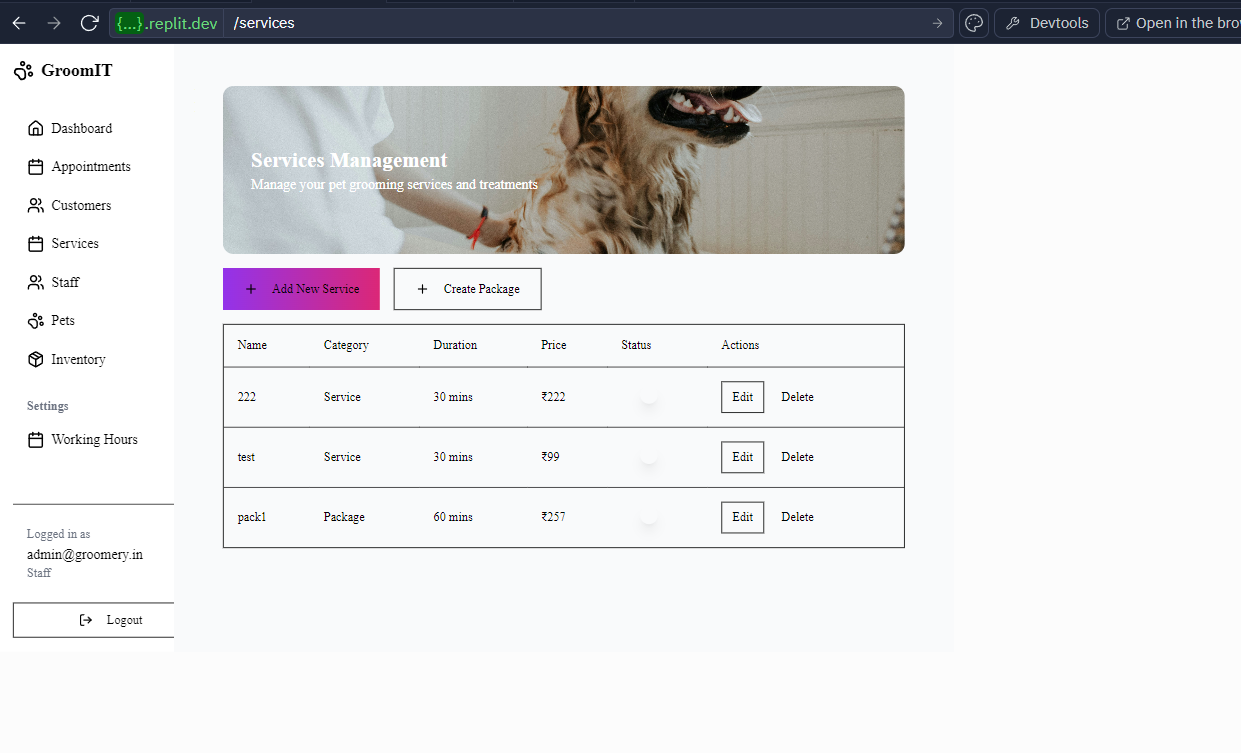
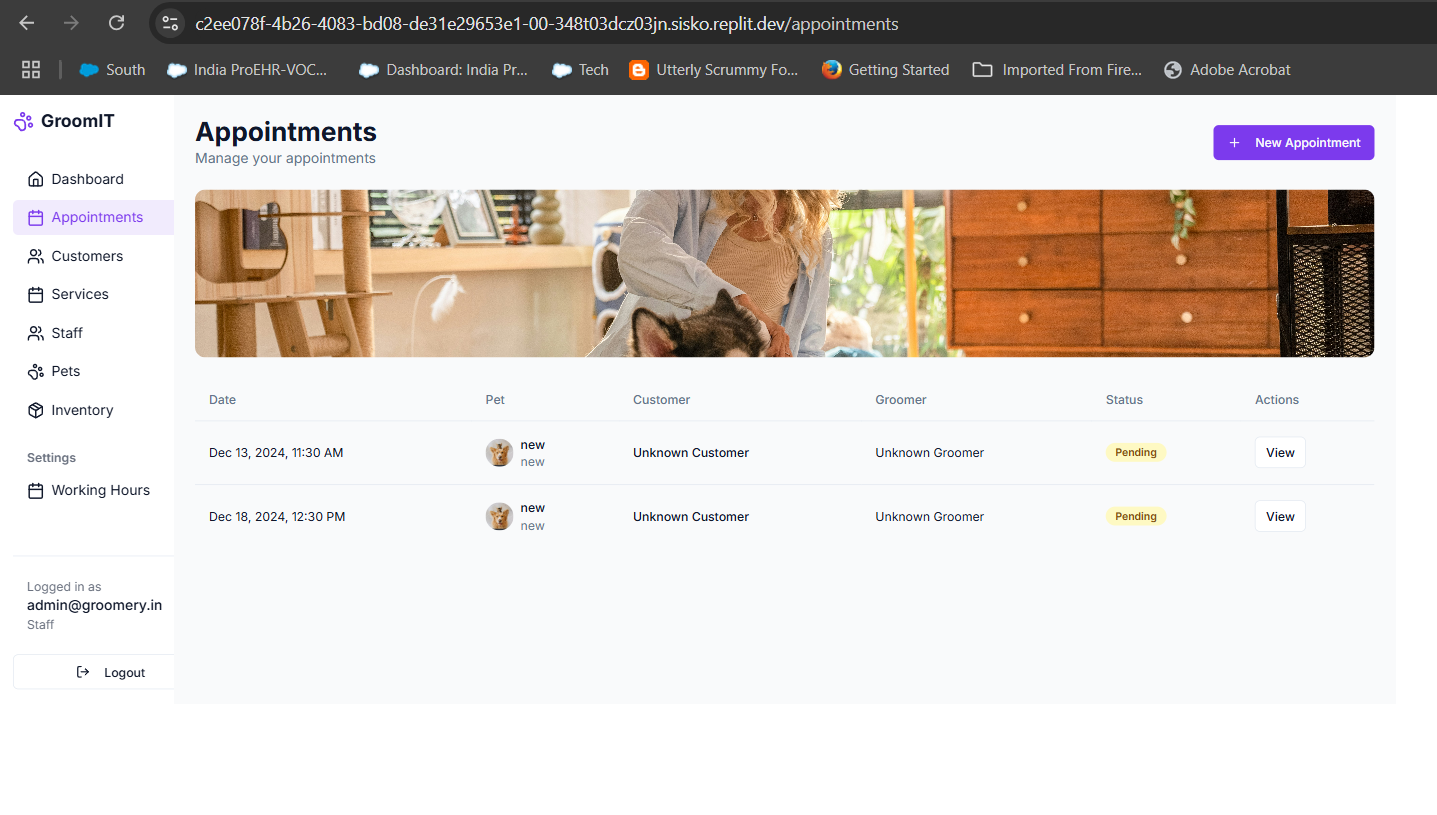
Agent query: Are the customer names (pet owners) and groomer names now displaying correctly in the appointments list?
Improve error handling in `useAppointments` hook by logging errors when groomer or customer data is not found.

Screenshot: https://storage.googleapis.com/screenshot-production-us-central1/c2ee078f-4b26-4083-bd08-de31e29653e1/5789ca11-1ac1-4c07-940a-7cab07e572f5.jpg

diff --git a/client/src/hooks/use-appointments.ts b/client/src/hooks/use-appointments.ts
@@ -115,14 +115,14 @@ export function useAppointments() {
               name: 'Unknown Groomer'
             };
 
-            if (process.env.NODE_ENV !== 'development') {
-              const groomerDoc = await getDoc(doc(db, 'users', rawData.groomerId));
-              if (groomerDoc.exists()) {
-                const rawGroomerData = groomerDoc.data();
-                groomerData = {
-                  name: rawGroomerData.name || 'Unknown Groomer'
-                };
-              }
+            const groomerDoc = await getDoc(doc(db, 'users', rawData.groomerId));
+            if (groomerDoc.exists()) {
+              const rawGroomerData = groomerDoc.data();
+              groomerData = {
+                name: rawGroomerData.name || 'Unknown Groomer'
+              };
+            } else {
+              console.error('Groomer not found for ID:', rawData.groomerId);
             }
 
             // Get customer data
@@ -131,7 +131,7 @@ export function useAppointments() {
               lastName: 'Customer'
             };
 
-            if (process.env.NODE_ENV !== 'development' && petData.customerId !== 'unknown') {
+            if (petData.customerId !== 'unknown') {
               const customerDoc = await getDoc(doc(db, 'customers', petData.customerId));
               if (customerDoc.exists()) {
                 const rawCustomerData = customerDoc.data();
@@ -139,6 +139,8 @@ export function useAppointments() {
                   firstName: rawCustomerData.firstName || 'Unknown',
                   lastName: rawCustomerData.lastName || 'Customer'
                 };
+              } else {
+                console.error('Customer not found for ID:', petData.customerId);
               }
             }
 
